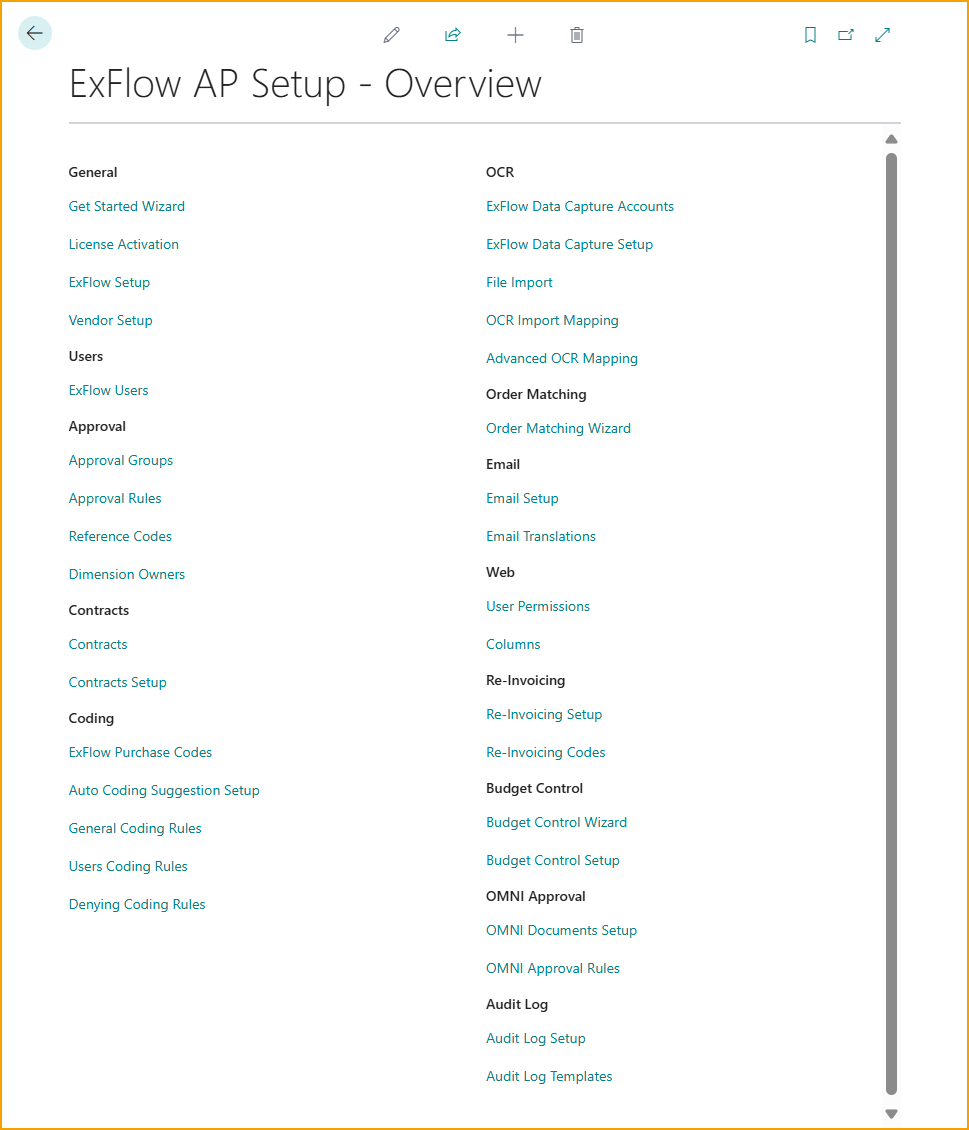
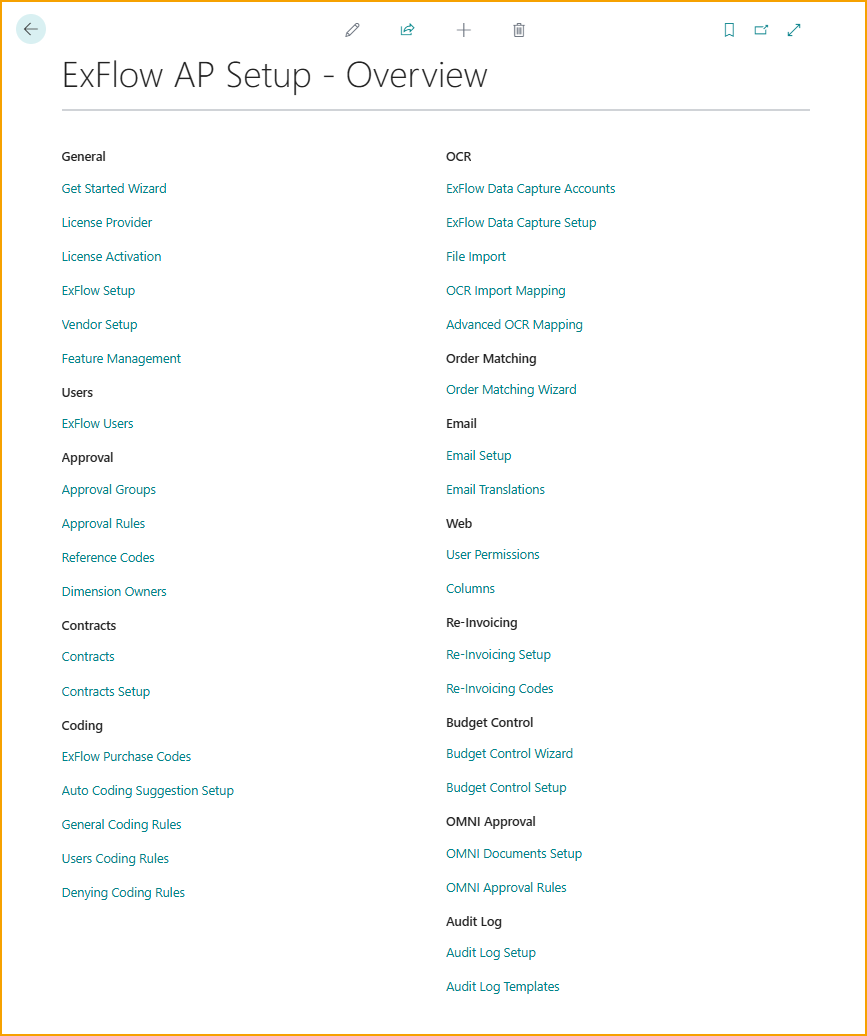
Fm corr 0612

diff --git a/i18n/es/docusaurus-plugin-content-docs/current/user-manual/1-welcome-to-exflow/6-get-started.md b/i18n/es/docusaurus-plugin-content-docs/current/user-manual/1-welcome-to-exflow/6-get-started.md
@@ -265,7 +265,7 @@ La Gestión de Características de ExFlow funciona con el Proveedor de Licencias
 
 Encuentre y utilice nuestros Asistentes de Coincidencia de Pedidos para una configuración fácil y sin problemas para manejar sus documentos coincidentes con pedidos. 
 
-Los asistentes son visibles dependiendo de si los clientes tienen la licencia activada a través de la Activación de Licencia ExFlow o [Proveedor de Licencias](https://docs.exflow.cloud/business-central/docs/user-manual/welcome-to-exflow/get-started#license-provider) 
+Los asistentes son visibles dependiendo de si los clientes tienen la licencia activada a través de ExFlow [Activación de licencia](https://docs.exflow.cloud/business-central/docs/user-manual/welcome-to-exflow/get-started#license) o [Proveedor de licencias](https://docs.exflow.cloud/business-central/docs/user-manual/welcome-to-exflow/get-started#license-provider)
 
 
 ### Asistente de Coincidencia de Pedidos de Compra
@@ -276,5 +276,7 @@ Lea más sobre esto en la sección [Proceso de Coincidencia de Pedidos de Compra
 
 ### Nuevo Asistente de Coincidencia de Pedidos
 El Nuevo Asistente de Coincidencia de Pedidos será visible si se utiliza el Proveedor de Licencias y la nueva funcionalidad de Coincidencia de Pedidos está habilitada a través de la Gestión de Características de ExFlow. 
+
+Nota: Esta función estará habilitada para todas las empresas. Si está deshabilitada, también lo estará para todas.
 
 Lea más sobre esto en la sección [Nueva Experiencia de Coincidencia de Pedidos](https://docs.signupsoftware.com/business-central/docs/user-manual/approval-workflow/new-order-matching)

diff --git a/i18n/de/docusaurus-plugin-content-docs/current/user-manual/1-welcome-to-exflow/6-get-started.md b/i18n/de/docusaurus-plugin-content-docs/current/user-manual/1-welcome-to-exflow/6-get-started.md
@@ -265,7 +265,7 @@ Möchten Sie auch mit Ihren auftragsabgeglichenen Dokumenten beginnen? Großarti
 
 Finden und nutzen Sie unsere Auftragsabgleich-Assistenten für eine einfache und nahtlose Einrichtung zur Handhabung Ihrer auftragsabgeglichenen Dokumente. 
 
-Die Assistenten sind sichtbar, abhängig davon, ob Kunden die Lizenz über die ExFlow-Lizenzaktivierung oder den [Lizenzanbieter](https://docs.exflow.cloud/business-central/docs/user-manual/welcome-to-exflow/get-started#license-provider) aktiviert haben. 
+Die Assistenten sind sichtbar, je nachdem, ob Kunden die Lizenz über ExFlow [Lizenzaktivierung](https://docs.exflow.cloud/business-central/docs/user-manual/welcome-to-exflow/get-started#license) oder [Lizenzanbieter](https://docs.exflow.cloud/business-central/docs/user-manual/welcome-to-exflow/get-started#license-provider) aktiviert haben.
 
 
 ### Einkaufsauftragsabgleich-Assistent
@@ -276,5 +276,7 @@ Lesen Sie mehr darüber im Abschnitt [Einkaufsauftragsabgleichprozess](https://d
 
 ### Neuer Auftragsabgleich-Assistent
 Der Neue Auftragsabgleich-Assistent wird sichtbar sein, wenn der Lizenzanbieter verwendet wird und die Neue Auftragsabgleichfunktionalität über die ExFlow Funktionsverwaltung aktiviert ist. 
+
+Bitte beachten Sie: Diese Funktion ist für alle Unternehmen aktiviert. Wenn sie deaktiviert ist, ist sie auch für alle Unternehmen deaktiviert.
 
 Lesen Sie mehr darüber im Abschnitt [Neue Auftragsabgleich-Erfahrung](https://docs.signupsoftware.com/business-central/docs/user-manual/approval-workflow/new-order-matching)

diff --git a/docs/user-manual/1-welcome-to-exflow/6-get-started.md b/docs/user-manual/1-welcome-to-exflow/6-get-started.md
@@ -265,7 +265,7 @@ What to get started with your order matched documents as well? Great!
 
 Find and utilize our Order Matching Wizards for an easy and seamless setup for handling your order matched documents. 
 
-The wizards are visible depending if customers are have the license activated through ExFlow License Activation or [License Provider](https://docs.exflow.cloud/business-central/docs/user-manual/welcome-to-exflow/get-started#license-provider) 
+The wizards are visible depending if customers are have the license activated through ExFlow [License Activation](https://docs.exflow.cloud/business-central/docs/user-manual/welcome-to-exflow/get-started#license) or [License Provider](https://docs.exflow.cloud/business-central/docs/user-manual/welcome-to-exflow/get-started#license-provider) 
 
 
 ### Purchase Order Matching Wizard
@@ -276,5 +276,7 @@ Read more about this under section [Purchase Order Matching Process](https://doc
 
 ### New Order Matching Wizard
 The New Order Matching Wizard will be visible if License Provider is used and the New Order Matching functionality is enabled via ExFlow Feature Management. 
+
+Please note: This feature will be enabled for all companies. When disabled, it will be disabled for all companies as well.
 
 Read more about this under section [New Order Matching Experience](https://docs.signupsoftware.com/business-central/docs/user-manual/approval-workflow/new-order-matching)

diff --git a/i18n/es/docusaurus-plugin-content-docs/current/user-manual/4-approval-workflow/20-new-order-matching.md b/i18n/es/docusaurus-plugin-content-docs/current/user-manual/4-approval-workflow/20-new-order-matching.md
@@ -10,7 +10,9 @@ Para utilizar la nueva Experiencia de Coincidencia de Órdenes con el Motor de C
 
 ### Gestión de Funciones de ExFlow
 
-Vaya a: **Gestión de Funciones de ExFlow** para habilitar la Nueva Función de Coincidencia de Órdenes.
+Vaya a: **Gestión de Funciones de ExFlow** para habilitar la Nueva Función de Coincidencia de Órdenes. 
+
+Esta función estará habilitada para todas las empresas.
 
 ![ExFlow Import Journal - Nº de Orden](/img/media/FM-001.png)
  

diff --git a/i18n/de/docusaurus-plugin-content-docs/current/user-manual/4-approval-workflow/20-new-order-matching.md b/i18n/de/docusaurus-plugin-content-docs/current/user-manual/4-approval-workflow/20-new-order-matching.md
@@ -10,7 +10,9 @@ Um die neue Auftragsabgleich-Erfahrung mit der Auftragsabgleich-Engine und all i
 
 ### ExFlow Funktionsverwaltung
 
-Gehen Sie zu: **ExFlow Funktionsverwaltung**, um die neue Auftragsabgleich-Funktion zu aktivieren.
+Gehen Sie zu: **ExFlow Funktionsverwaltung**, um die neue Auftragsabgleich-Funktion zu aktivieren. 
+
+Diese Funktion wird für alle Unternehmen aktiviert.
 
 ![ExFlow Import Journal - Auftragsnr.](../../images/FM-001.png)
  

diff --git a/docs/user-manual/4-approval-workflow/20-new-order-matching.md b/docs/user-manual/4-approval-workflow/20-new-order-matching.md
@@ -10,7 +10,9 @@ To use the new Order Matching Experience with the Order Matching Engine and all 
 
 ### ExFlow Feature Management
 
-Go to: **ExFlow Feature Management** to enable the New Order Matching Feature.
+Go to: **ExFlow Feature Management** to enable the New Order Matching Feature. 
+
+This feature will be enabled for all companies.
 
 ![ExFlow Import Journal - Order No.](/img/media/FM-001.png)
  
